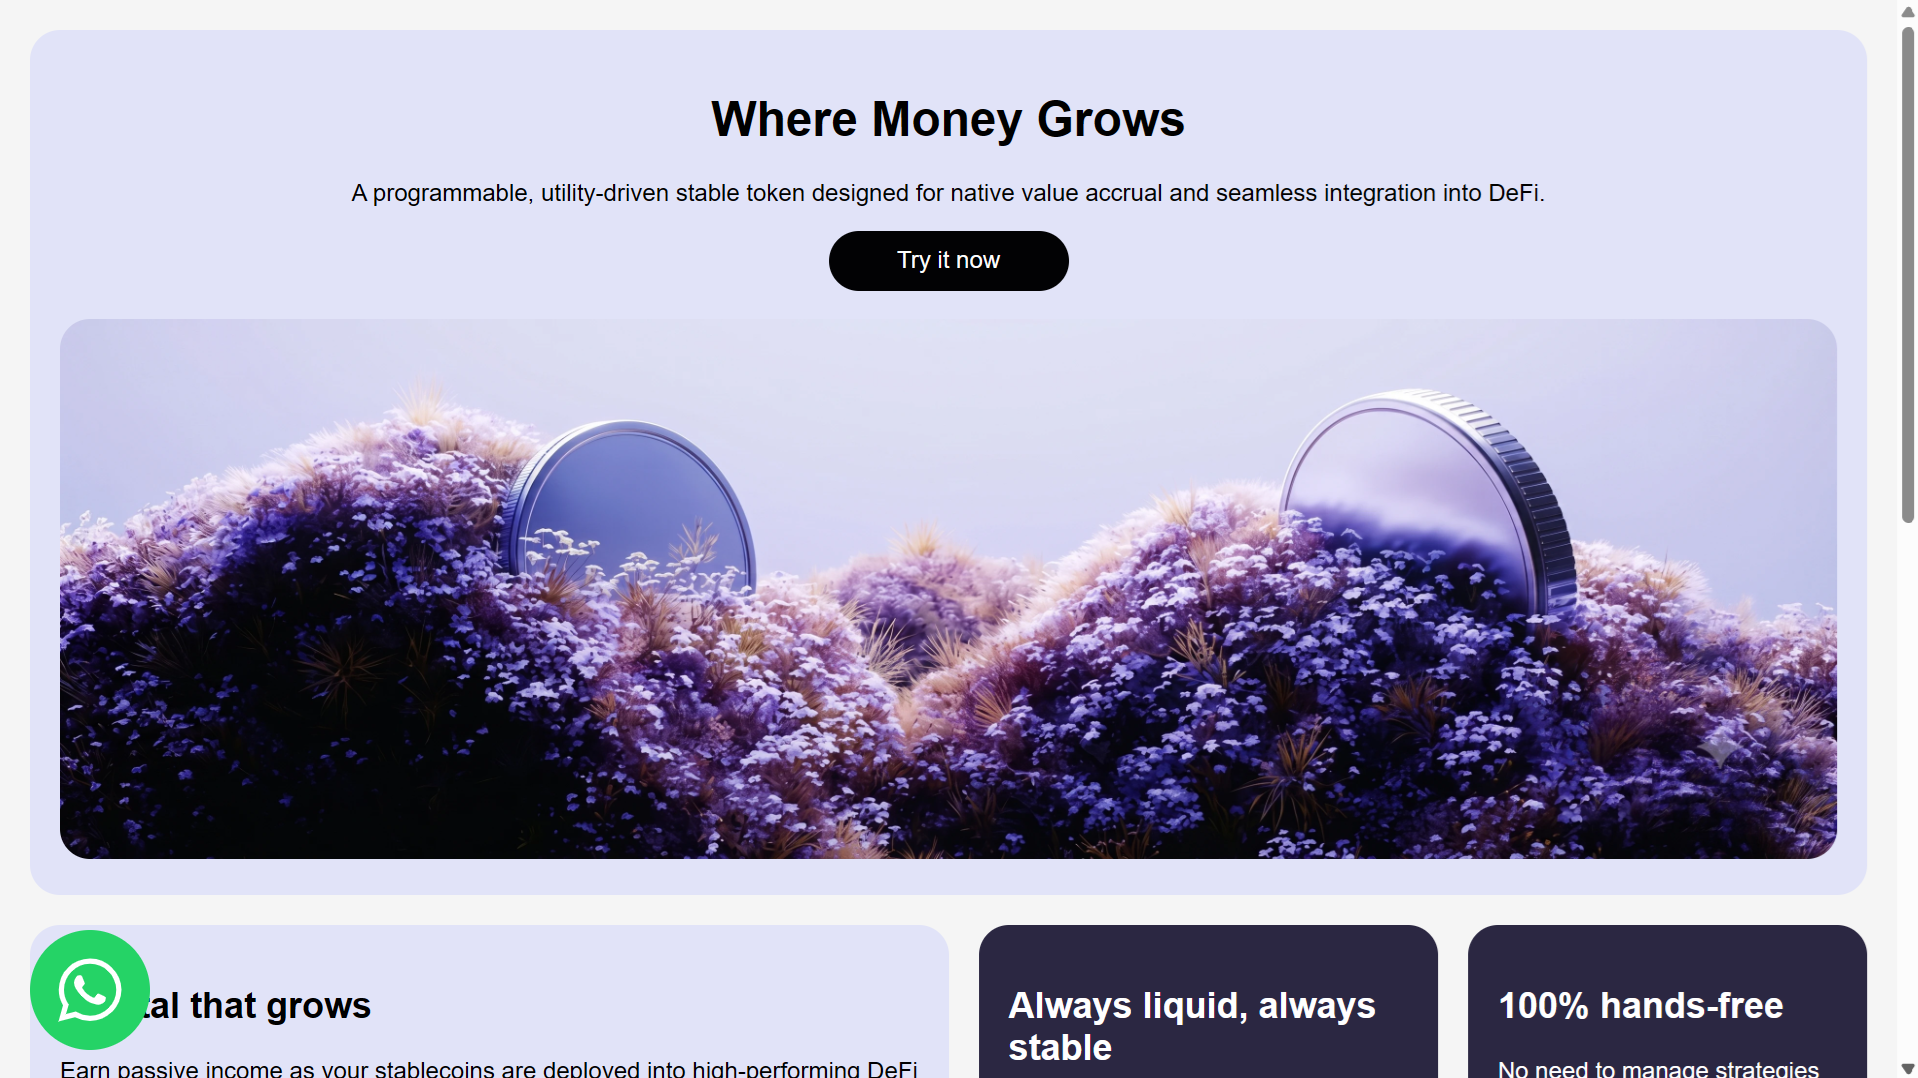
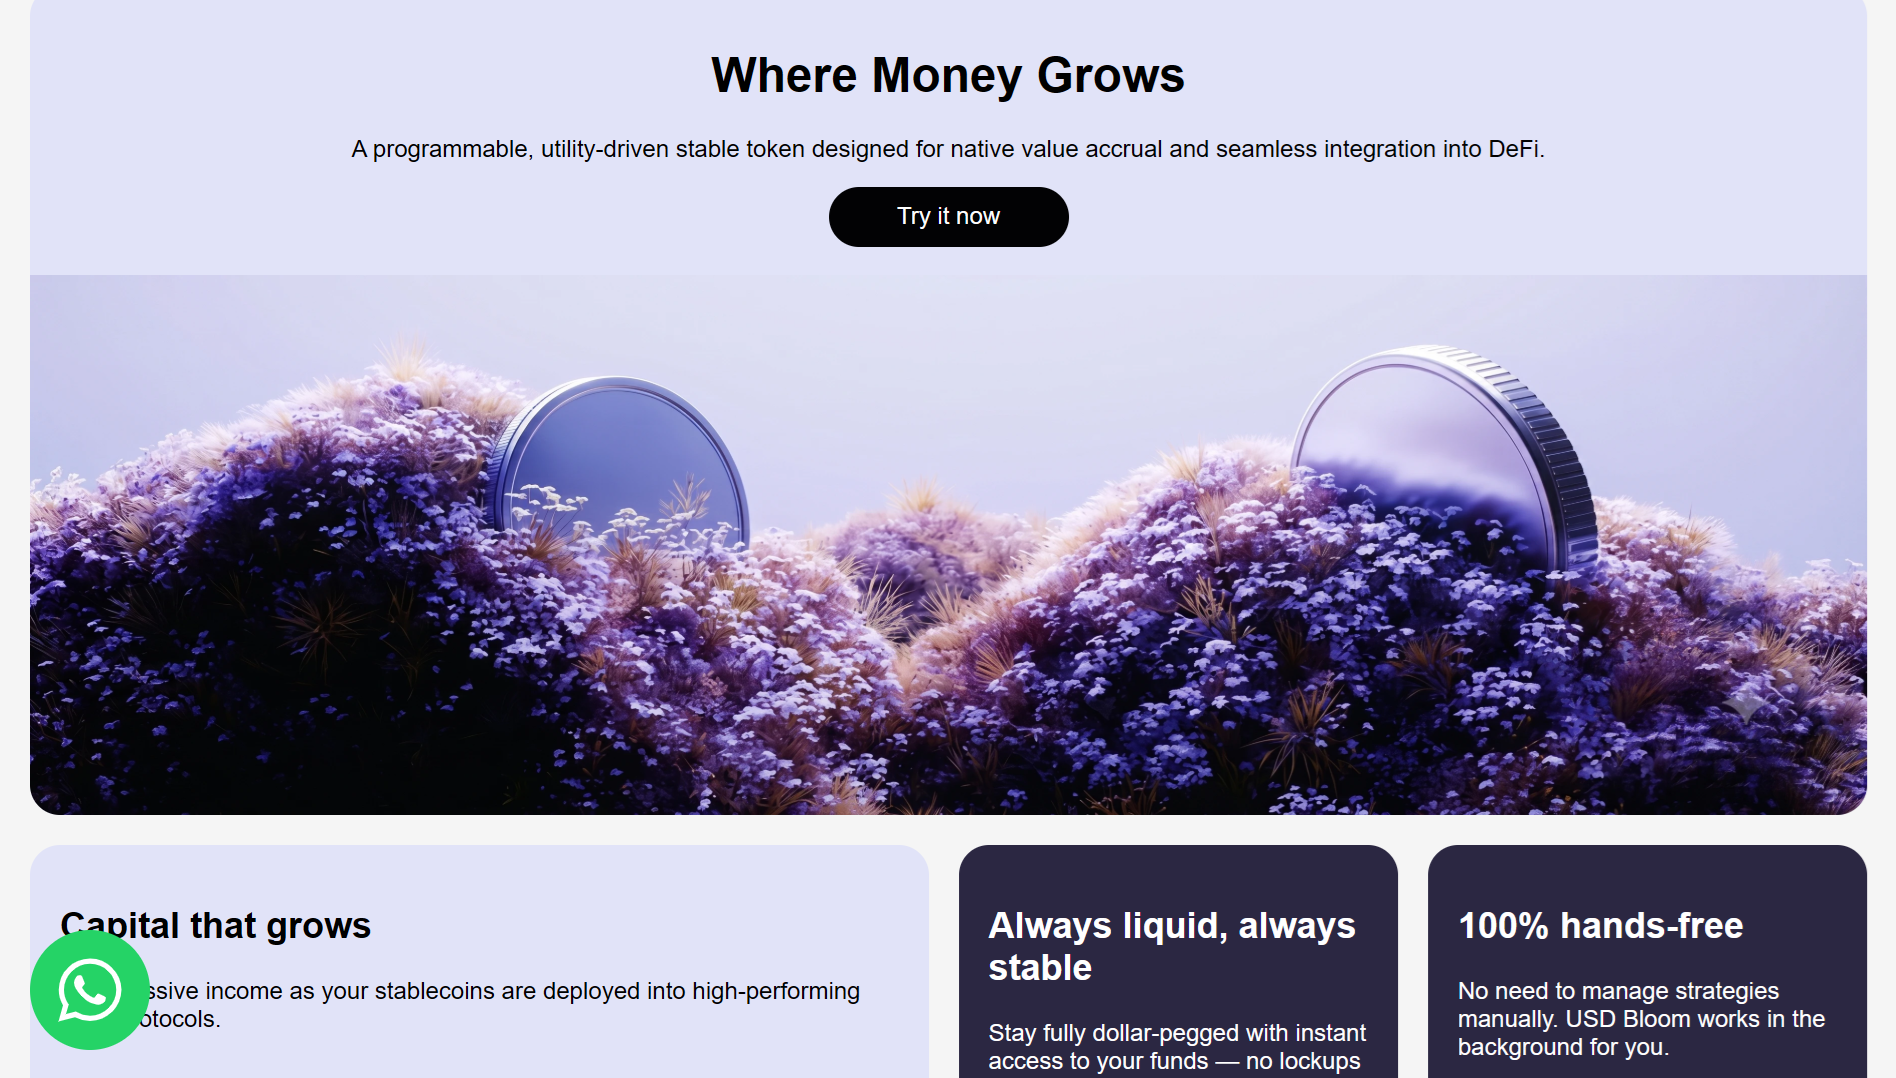
fix: fix image on README.md

diff --git a/style.css b/style.css
@@ -1,3 +1,4 @@
+
 * {
     box-sizing: border-box;
     font-family: Arial, Helvetica, sans-serif;
@@ -35,20 +36,21 @@ body {
 }
 
 .section-1 {
-    width: 50%;
+    width: calc(50% - 13.333px);
     margin-right: 20px;
     background-color: #E1E3F8FF;
+    overflow: hidden;
 }
 
 .section-2 {
-    width: 25%;
+    width: calc(25% - 13.333px);
     margin-right: 20px;
     background-color: #2B2742FF;
     color: #FFFFFF;
 }
 
 .section-3 {
-    width: calc(25% - 40px);
+    width: calc(25% - 13.334px);
     background-color: #2B2742FF;
     color: #FFFFFF;
 }
@@ -67,14 +69,30 @@ body {
 }
 
 .article-1 {
-    width: 50%;
+    width: calc(50% - 10px);
     margin-right: 20px;
     background-color: #F5F5F5FF;
 }
 
 .article-2 {
-    width: calc(50% - 20px);
+    width: calc(50% - 10px);
     background-color: #FFFFFF;
+}
+
+.img-coin {
+    display: block;
+    width: calc(100% + 40px);
+    height: 360px;
+    margin: 0 -20px -20px;
+    overflow: hidden;
+    border-radius: 0 0 20px 20px;
+}
+
+.img-coin img {
+    display: block;
+    width: 100%;
+    height: 100%;
+    object-fit: cover;
 }
 
 .img-pantheon {
@@ -82,19 +100,6 @@ body {
     margin: auto;
     height: 75%;
     width: 75%;
-}
-
-.img-coin {
-    width: 100%;
-    height: 360px;
-    overflow: hidden;
-    border-radius: 20px;
-}
-
-.img-coin img {
-    width: 100%;
-    height: 100%;
-    object-fit: cover;
 }
 
 .try {
